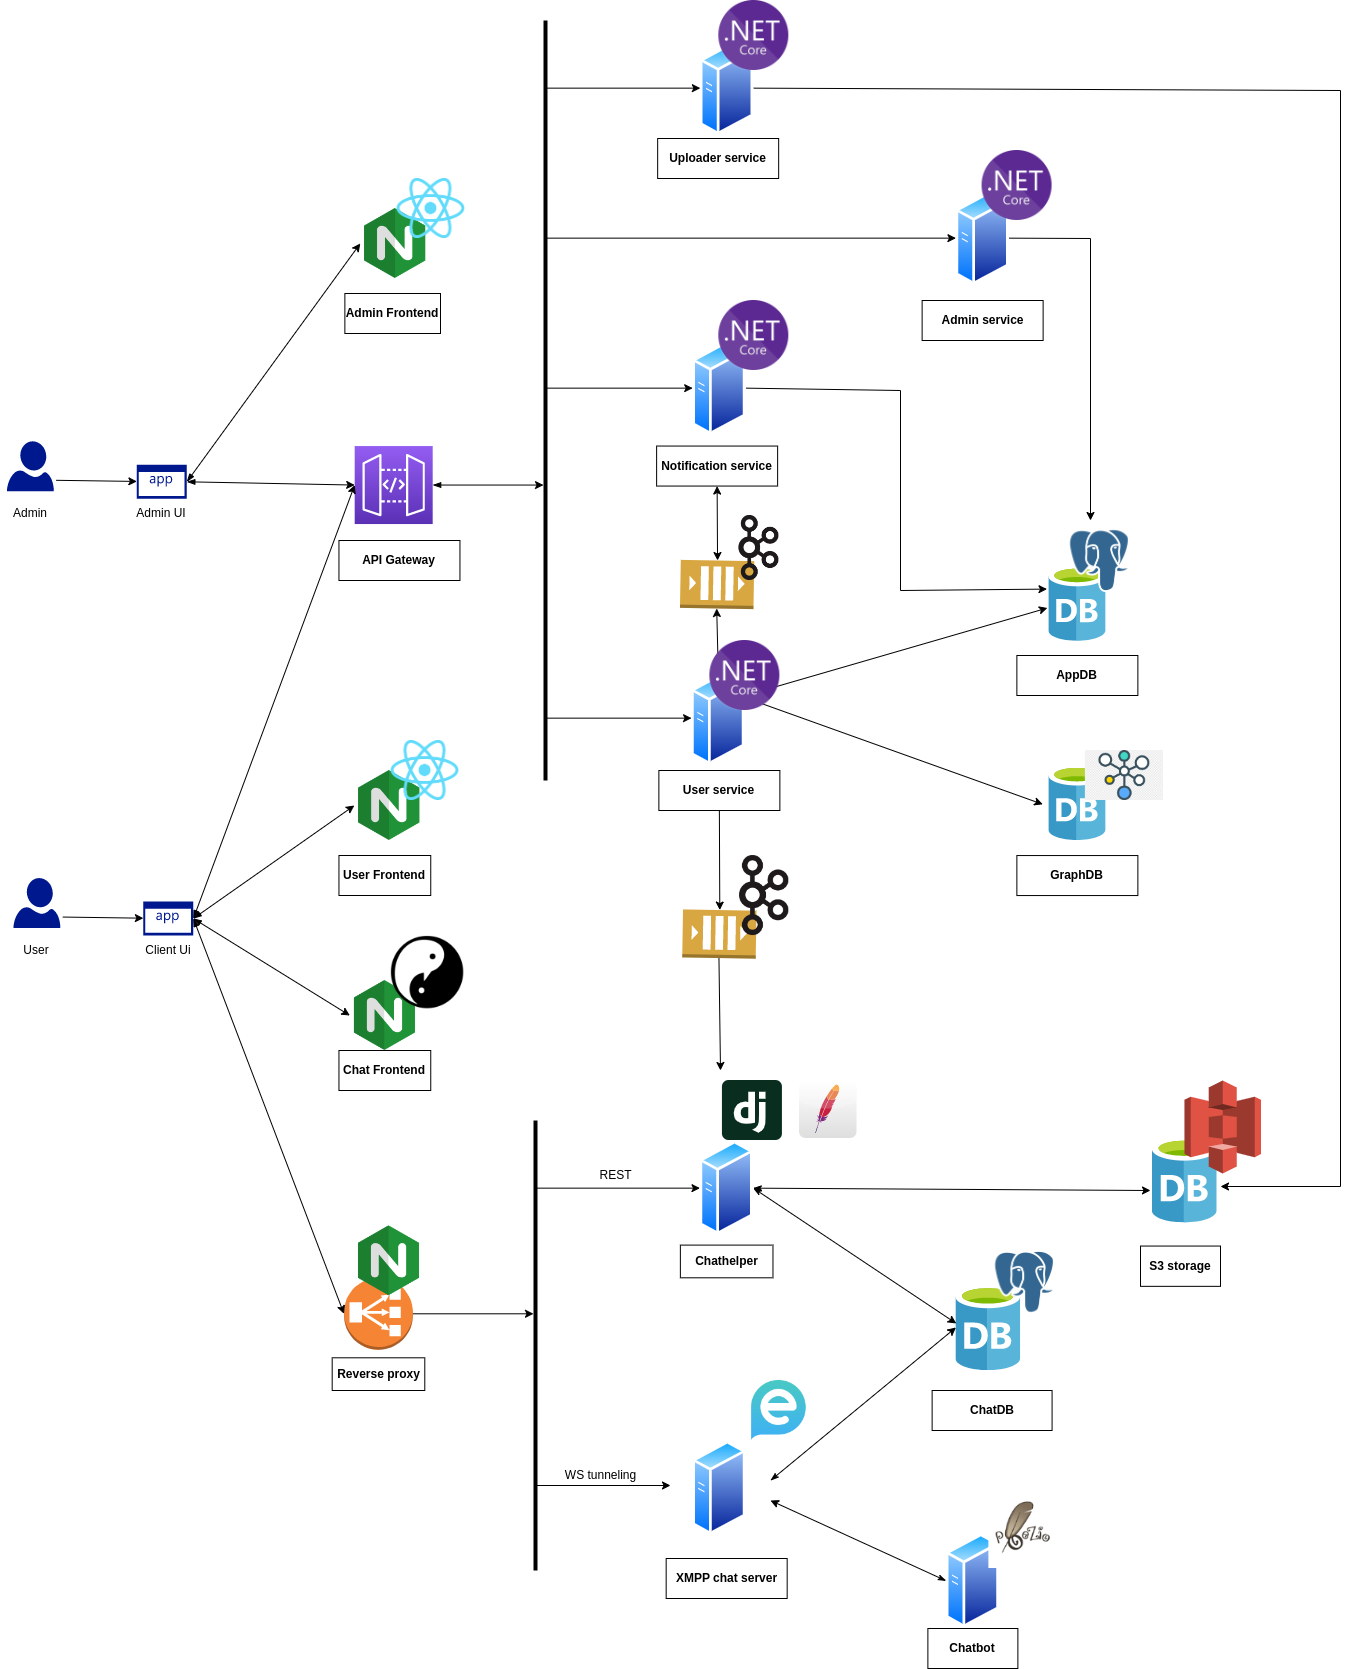
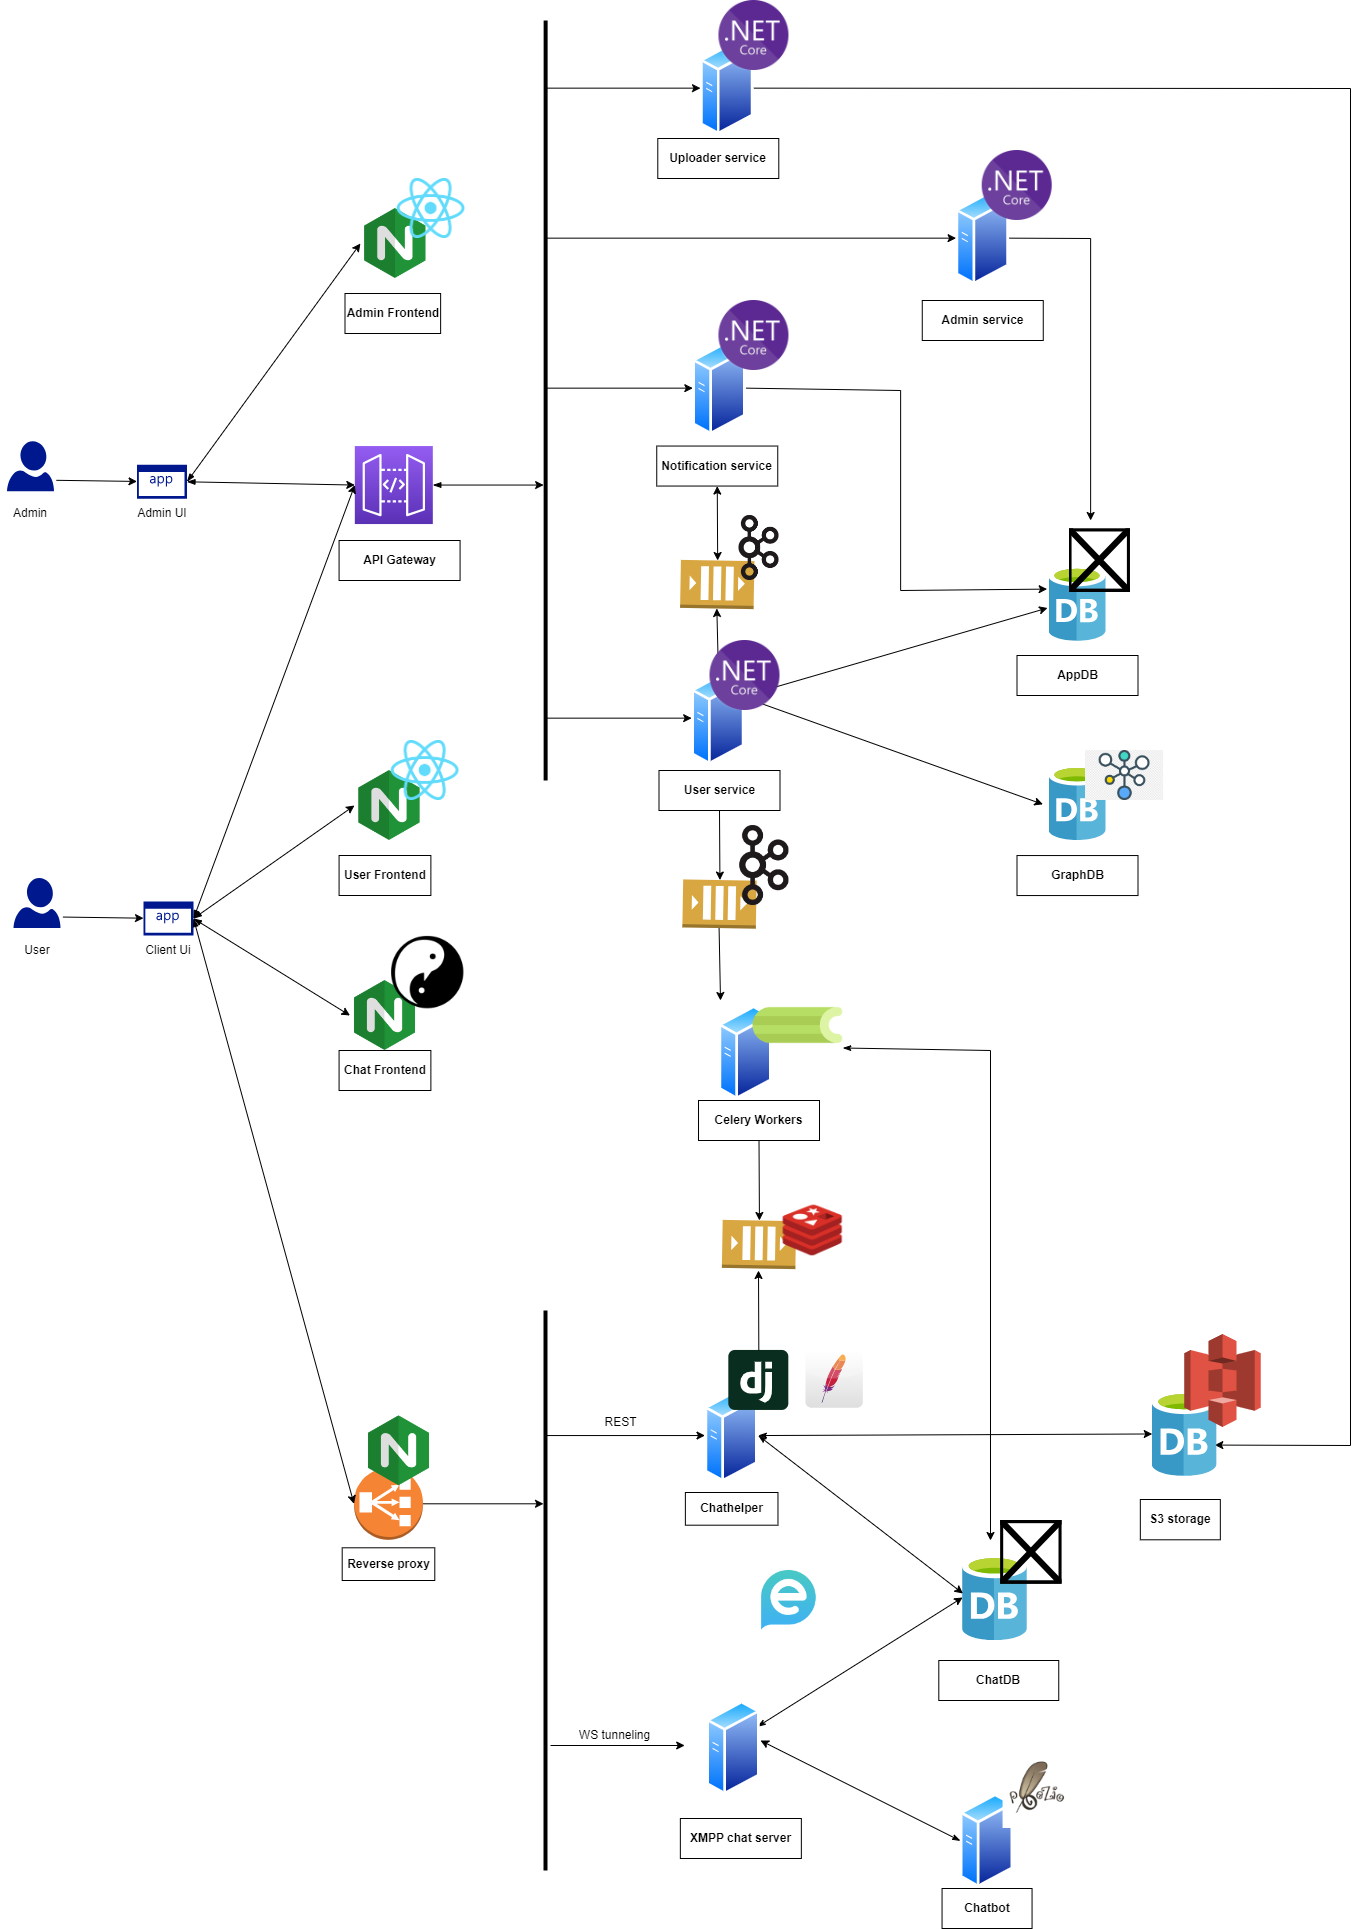
Add tech stack and adjust archi design img

diff --git a/profile/README.md b/profile/README.md
@@ -55,7 +55,7 @@ We are also considering an enhanced recommendation system that can suggest frien
 ![image](https://github.com/langexchange/.github/blob/main/images/architecture.png)
 
 
-# Tech stack
+## 5. Tech stack
 
 - [React](https://reactjs.org/)
 - [Redux](https://redux.js.org/)
@@ -71,3 +71,30 @@ We are also considering an enhanced recommendation system that can suggest frien
 - [Graph database(neo4j)](https://neo4j.com/)
 - [Relational database(Postgres)](https://www.postgresql.org/)
 - [.Net 5](https://dotnet.microsoft.com/en-us/)
+
+### User inrterface layer
+
+| Service       | Type                         | Tech              |
+|---------------|------------------------------|-------------------|
+| API Gateway   | API Gateway                  | .Net core         |
+| App Frontend  | Webserver                    | ReactJs, Nginx    |
+| Chat Frontend | Webserver                    | ConverseJs, Ngixn |
+| Reverse Proxy | Reverse Proxy, Load balancer | Nginx             |
+
+
+### Application layer
+| Service              | Type               | Tech            |
+|----------------------|--------------------|-----------------|
+| User service         | API Service        | C#, .Net Core   |
+| Admin service        | API Service        | C#, .Net Core   |
+| Uploader service     | API Service        | C#, .Net Core   |
+| Notification service | API Service        | C#, .Net Core   |
+| Chat service         | XMPP server        | Elang, Ejabberd |
+| Chathelper service   | API Service        | Python, Django  |
+| Chatbot              | Chat client        | Python, Slixmpp |
+| Celery worker        | Distributed worker | Python, Celery  |
+
+### Data layer
+1. Kafka
+2. Redis
+3. GraphDb
